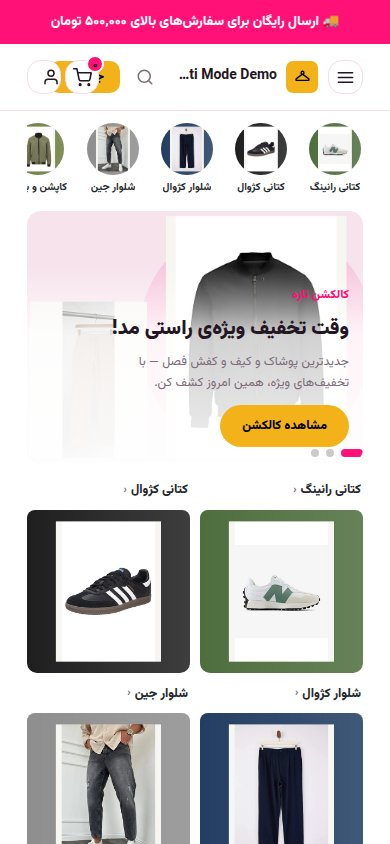
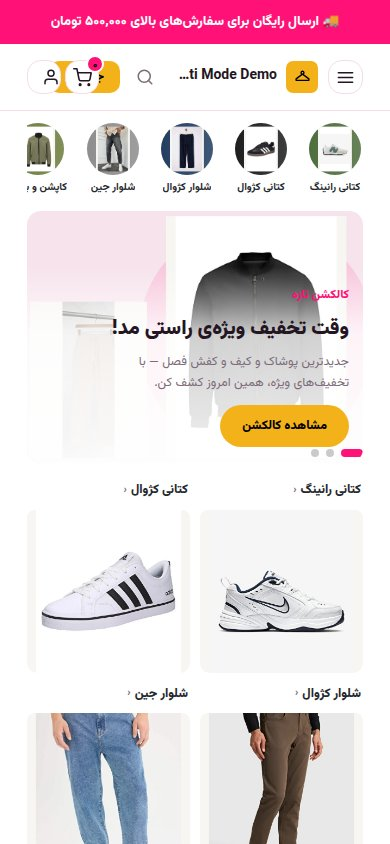
Fashion mosaic edge-to-edge fix + promo header CSS Grid restructure (v6)
Merchant QA on the previous micro-fix pass found two remaining visual
problems on fashion_promo_catalog's Home: the category mosaic still read
as a small product photo inside a colored frame, and the desktop promo
header's brand/search/actions structure was still wrong (only the inert
burger had been hidden).

Root cause of the mosaic (traced through the seed command's Pillow
compositing, not guessed): Category.image is a deliberately composed
800x600 canvas with a colored/gradient background and the product photo
pasted at ~86% height in its own narrower slot — the framing is baked
into the image bytes, so no object-fit:cover treatment can ever make it
read as edge-to-edge. Fix: a new generic, ID-free resolver,
resolve_category_representative_media(category), returns the cover
image of a real active product in that category (or its subcategories),
reusing the existing Product.cover_image convention. Wired into
_category_grid_context only for display_mode == "fashion_mosaic", so
every other category_grid variant and Ready Template is unaffected.

Header fix: .gh--promo .gh-row-main is now a real CSS Grid with
grid-template-areas "brand search actions" (brand=compact, search=wide
flexible column with a floor, actions=compact auto), which under this
site's RTL direction places brand right / search center-prominent /
actions left with no manual reversal. The shared gh-inline-block
(display:contents) wrapper on the search zone is overridden back to a
[…]

Changed region(s): [[0.0615, 0.5853, 0.9538, 0.8009], [0.0615, 0.8318, 0.9538, 1.0]]

diff --git a/apps/storefront_builder/static/css/storefront_builder.css b/apps/storefront_builder/static/css/storefront_builder.css
@@ -3649,24 +3649,41 @@ a.sfb-v3-component-item,
 }
 .gh-shell--promo .gh-announce .wrap{height:44px;justify-content:center;gap:18px;font-weight:800;font-size:13.5px}
 .gh-shell--promo .gh-announce-links a{color:#fff;font-weight:800}
-.gh--promo .gh-row-main{display:flex;align-items:center;gap:16px;height:76px}
-/* Micro-fix pass — merchant: "hamburger does nothing" + header
-   composition feels displaced. Root cause: .gh-row-nav (the row the
-   burger toggles) is a "shared desktop+mobile nav bar, always visible"
-   by this codebase's own established convention (see the comment on
-   .gh--marketplace .gh-row-nav above) -- it only actually collapses
-   below the 680px breakpoint, so on desktop the always-visible burger
-   toggled nothing a merchant could see, AND it sat as the very first
-   (rightmost, in RTL) element ahead of the logo, displacing it from its
-   natural anchor position. Hiding the burger above the breakpoint where
-   it is genuinely functional fixes both: desktop no longer shows a dead
-   control, and the logo becomes the rightmost anchor exactly like the
-   reference. The mobile toggle itself (confirmed working: click removes
-   .gh-nav-hidden, the existing .gh--promo .gh-row-nav:not(.gh-nav-hidden)
-   rule below then reveals it) is completely unchanged. */
+/* Second micro-fix pass — merchant: hiding the burger alone did not fix
+   the actual structural problem. A plain flex row with the burger simply
+   hidden still let the browser's normal flex distribution decide widths
+   -- .gh-promo-search only had flex:1 (grow) with no floor, so on a
+   crowded row it could still end up visually thin/displaced relative to
+   logo and actions. An explicit CSS Grid with named areas makes the
+   three zones' relative importance an intentional layout decision
+   instead of an emergent one: brand gets a stable compact column, search
+   gets a wide, floor-guaranteed flexible column, actions get a compact
+   auto column. Column 1 in grid-template-areas is the START edge, which
+   the page's RTL direction renders as the visual RIGHT -- so writing
+   "brand search actions" in that (logical, reading-order) sequence
+   places brand at the right, search centered, actions at the left,
+   exactly the required RTL-aware order, with no manual reversal needed. */
+.gh--promo .gh-row-main{
+  display:grid;
+  grid-template-columns:minmax(150px,auto) minmax(360px,1fr) auto;
+  grid-template-areas:"brand search actions";
+  align-items:center;gap:16px;height:76px;
+}
+.gh--promo .gh-row-main > .gh-logo{grid-area:brand;min-width:0}
+/* .gh-promo-search normally also carries .gh-inline-block
+   (display:contents, this codebase's shared "transparent wrapper for a
+   responsive data-attribute" pattern -- see layout.css's own comment on
+   .sfb-shell-inline) so its own hide_on_tablet/hide_on_mobile toggle
+   keeps working. A display:contents element cannot itself be a grid
+   item, so it must be cancelled here to let this wrapper occupy the
+   "search" column; the [data-shell-hide-tablet]/[data-shell-hide-mobile]
+   overrides that implement the actual hide toggle only apply inside
+   narrower media queries (layout.css), so they still win there
+   regardless of this override. */
+.gh--promo .gh-row-main > .gh-promo-search{grid-area:search;display:block;width:100%;min-width:0}
+.gh--promo .gh-row-main > .gh-actions{grid-area:actions}
 .gh--promo .gh-burger{display:none}
-.gh--promo .gh-promo-search{flex:1;max-width:720px}
-.gh--promo .gh-promo-search .gh-search{height:48px;border-radius:24px;background:var(--gh-bg)}
+.gh--promo .gh-promo-search .gh-search{height:48px;border-radius:24px;background:var(--gh-bg);width:100%}
 .gh--promo .gh-row-nav{background:var(--gh-surface);border-top:1px solid var(--gh-border)}
 .gh--promo .gh-row-nav .wrap{height:auto;padding-block:10px}
 .gh-promo-nav-row{display:flex;align-items:center;justify-content:space-between;gap:16px;flex-wrap:wrap}
@@ -3680,6 +3697,16 @@ a.sfb-v3-component-item,
   .gh--promo .gh-promo-search{max-width:none}
 }
 @media(max-width:680px){
+  /* Mobile main row reverts to plain flex — the desktop-only grid's
+     column minimums (e.g. search's 360px floor) would force overflow at
+     phone widths regardless of which zones are actually visible there.
+     Mobile header behavior is explicitly "accepted, do not break" this
+     pass, so this is a full revert to the pre-grid flex row, not a new
+     mobile layout. */
+  .gh--promo .gh-row-main{display:flex}
+  .gh--promo .gh-row-main > .gh-logo,
+  .gh--promo .gh-row-main > .gh-promo-search,
+  .gh--promo .gh-row-main > .gh-actions{grid-area:unset}
   .gh--promo .gh-burger{display:inline-flex}
   .gh--promo .gh-row-nav{display:none}
   .gh--promo .gh-row-nav:not(.gh-nav-hidden){display:block;position:relative}

diff --git a/apps/storefront_builder/templates/storefront_builder/sections/category_grid.html b/apps/storefront_builder/templates/storefront_builder/sections/category_grid.html
@@ -28,7 +28,9 @@ renderer never needs tenant ids inside a global preset.
       <a class="category-mosaic-tile" href="{% url 'catalog:product-list' %}?category={{ cat.slug }}">
         <span class="category-mosaic-heading">{{ cat.name }}<span class="category-mosaic-chevron" aria-hidden="true">‹</span></span>
         <span class="category-mosaic-media">
-          {% if cat.image %}<img src="{{ cat.image.url }}" alt="{{ cat.name }}" loading="lazy">{% else %}<span class="category-mosaic-fallback">{{ cat.icon|default:"🏷" }}</span>{% endif %}
+          {% if cat.representative_media %}<img src="{{ cat.representative_media.image.url }}" alt="{{ cat.name }}" loading="lazy">
+          {% elif cat.image %}<img src="{{ cat.image.url }}" alt="{{ cat.name }}" loading="lazy">
+          {% else %}<span class="category-mosaic-fallback">{{ cat.icon|default:"🏷" }}</span>{% endif %}
         </span>
       </a>
       {% endfor %}

diff --git a/apps/storefront_builder/tests/test_u2a_global_header_system.py b/apps/storefront_builder/tests/test_u2a_global_header_system.py
@@ -797,3 +797,104 @@ class LegacyDefaultUnchangedByFixPassTwoTests(TestCase):
     def test_legacy_default_still_resolves_correctly_after_fix_pass_two(self):
         variant = g.get_global_variant(g.GLOBAL_HEADER_REGION, "legacy_default")
         self.assertEqual(variant.renderer, "storefront_builder/partials/page_shell_header.html")
+
+
+_PROMO_HEADER_TEMPLATE_PATH = (
+    _GLOBAL_HEADER_DIR / "promo_search_nav.html"
+)
+
+
+class PromoHeaderDesktopGridStructureTests(TestCase):
+    """Final Home micro-fix — merchant QA: the previous pass only hid the
+    inert desktop burger; the promo header's main row must actually read
+    as RIGHT=brand / CENTER=search / LEFT=actions in RTL. Implemented as
+    a real CSS Grid with explicit named areas (not flex order tricks),
+    verified here at the CSS-source level; the live pixel positions were
+    verified separately with a real browser render (see the mission's
+    final report)."""
+
+    def test_row_main_is_a_grid_with_named_areas(self):
+        css = _GLOBAL_HEADER_CSS_PATH.read_text(encoding="utf-8")
+        self.assertIn(".gh--promo .gh-row-main{", css)
+        self.assertIn('grid-template-areas:"brand search actions"', css)
+
+    def test_logo_is_the_brand_area(self):
+        css = _GLOBAL_HEADER_CSS_PATH.read_text(encoding="utf-8")
+        self.assertIn(".gh--promo .gh-row-main > .gh-logo{grid-area:brand", css)
+
+    def test_search_is_the_flexible_central_area(self):
+        css = _GLOBAL_HEADER_CSS_PATH.read_text(encoding="utf-8")
+        self.assertIn(".gh--promo .gh-row-main > .gh-promo-search{grid-area:search", css)
+
+    def test_actions_is_the_compact_auto_width_area(self):
+        css = _GLOBAL_HEADER_CSS_PATH.read_text(encoding="utf-8")
+        self.assertIn(".gh--promo .gh-row-main > .gh-actions{grid-area:actions}", css)
+
+    def test_search_area_overrides_the_shared_display_contents_wrapper(self):
+        """``.gh-promo-search`` also carries the shared ``gh-inline-block``
+        class, which sets ``display:contents`` — that makes an element
+        invalid as a grid item. The promo-specific override must restore
+        a real display value so the grid actually places it."""
+        css = _GLOBAL_HEADER_CSS_PATH.read_text(encoding="utf-8")
+        self.assertIn(".gh--promo .gh-row-main > .gh-promo-search{grid-area:search;display:block", css)
+
+    def test_desktop_burger_is_hidden(self):
+        css = _GLOBAL_HEADER_CSS_PATH.read_text(encoding="utf-8")
+        self.assertIn(".gh--promo .gh-burger{display:none}", css)
+
+    @staticmethod
+    def _promo_mobile_block(css: str) -> str:
+        """The ``.gh--promo``-specific ``@media(max-width:680px)`` block —
+        extracted by anchoring on the promo-only comment that opens it,
+        since the file has many unrelated 680px blocks for other
+        variants/sections."""
+        anchor = css.index("Mobile main row reverts to plain flex")
+        start = css.rindex("@media(max-width:680px)", 0, anchor)
+        end = css.index("\n}\n", anchor) + 3
+        return css[start:end]
+
+    def test_mobile_breakpoint_fully_reverts_to_flex(self):
+        """Grid track minimums (``minmax(360px,1fr)``) are reserved
+        regardless of visibility — reusing the desktop grid unmodified at
+        390px would force horizontal overflow. The accepted mobile layout
+        (frozen by this mission) must be preserved via a full revert."""
+        css = _GLOBAL_HEADER_CSS_PATH.read_text(encoding="utf-8")
+        mobile_block = self._promo_mobile_block(css)
+        self.assertIn(".gh--promo .gh-row-main{display:flex}", mobile_block)
+        self.assertIn(".gh--promo .gh-burger{display:inline-flex}", mobile_block)
+
+    def test_promo_template_markup_unchanged_by_css_only_fix(self):
+        """This pass fixes the header via CSS structure, not by
+        reordering the DOM — burger/logo/search/actions must still exist
+        in their original source order (grid-template-areas alone
+        determines the visual position)."""
+        source = _PROMO_HEADER_TEMPLATE_PATH.read_text(encoding="utf-8")
+        burger_pos = source.index("gh-burger")
+        logo_pos = source.index("_shared/logo.html")
+        search_pos = source.index("gh-promo-search")
+        actions_pos = source.index('class="gh-actions"')
+        self.assertLess(burger_pos, logo_pos)
+        self.assertLess(logo_pos, search_pos)
+        self.assertLess(search_pos, actions_pos)
+
+
+class PromoHeaderMobileNavToggleContractTests(TestCase):
+    """Re-verifies the mobile hamburger contract survives the desktop
+    grid restructuring — the toggle logic itself (Alpine ``ghMobileOpen``
+    state, ``gh-nav-hidden`` class binding) was never touched by this
+    pass, only the desktop CSS was."""
+
+    def test_burger_toggles_ghmobileopen_state(self):
+        html = _render_variant("storefront_builder/partials/global_header/promo_search_nav.html")
+        self.assertIn("@click=\"ghMobileOpen = !ghMobileOpen\"", html)
+        self.assertIn('aria-controls="gh-mobile-nav"', html)
+
+    def test_nav_row_binds_hidden_class_to_the_same_state(self):
+        html = _render_variant("storefront_builder/partials/global_header/promo_search_nav.html")
+        self.assertIn('id="gh-mobile-nav"', html)
+        self.assertIn("{ 'gh-nav-hidden': !ghMobileOpen }", html)
+
+    def test_burger_button_itself_is_never_css_hidden_below_the_desktop_breakpoint(self):
+        css = _GLOBAL_HEADER_CSS_PATH.read_text(encoding="utf-8")
+        mobile_block = PromoHeaderDesktopGridStructureTests._promo_mobile_block(css)
+        self.assertNotIn(".gh--promo .gh-burger{display:none}", mobile_block)

diff --git a/apps/storefront_builder/tests/test_section_data_service.py b/apps/storefront_builder/tests/test_section_data_service.py
@@ -5,6 +5,7 @@ from django.test import TestCase
 
 from apps.catalog.models import Brand, Category, Product, Vendor
 from apps.catalog.services import collection_service
+from apps.catalog.services.product_image_service import add_product_image
 from apps.storefront_builder.services import section_data_service
 from apps.stores.models import Store
 
@@ -293,3 +294,61 @@ class ResolveManualSourceTests(TestCase):
             self.store, _manual_settings(product_ids=ordered_ids, item_limit=2),
         )
         self.assertEqual([p.pk for p in products], ordered_ids[:2])
+
+
+def _png(name="test.png"):
+    from io import BytesIO
+
+    from django.core.files.uploadedfile import SimpleUploadedFile
+    from PIL import Image
+
+    buf = BytesIO()
+    Image.new("RGB", (400, 400), (10, 20, 30)).save(buf, "PNG")
+    return SimpleUploadedFile(name, buf.getvalue(), content_type="image/png")
+
+
+class ResolveCategoryRepresentativeMediaTests(TestCase):
+    """Micro-fix pass: the category mosaic must show a real per-product
+    cover image (edge-to-edge) instead of ``Category.image`` (a
+    deliberately composed thumbnail with baked-in colored margins — see
+    ``section_data_service.resolve_category_representative_media``'s own
+    docstring for the full root-cause). Generic/ID-free: only
+    already-resolved Category objects go in, only real, currently
+    storefront-visible Products come out."""
+
+    def setUp(self):
+        self.store = _akhlaghi()
+        self.category = Category.objects.create(store=self.store, name="دسته موزاییک", slug="mosaic-cat")
+
+    def test_no_products_returns_none(self):
+        self.assertIsNone(section_data_service.resolve_category_representative_media(self.category))
+
+    def test_returns_cover_image_of_a_real_product_in_category(self):
+        product = _product(self.store, "mosaic-p1", category=self.category)
+        image = add_product_image(product, _png())
+        media = section_data_service.resolve_category_representative_media(self.category)
+        self.assertEqual(media.pk, image.pk)
+
+    def test_subcategory_product_counts_as_representative(self):
+        child = Category.objects.create(store=self.store, name="زیردسته موزاییک", slug="mosaic-cat-child", parent=self.category)
+        product = _product(self.store, "mosaic-child-p1", category=child)
+        image = add_product_image(product, _png())
+        media = section_data_service.resolve_category_representative_media(self.category)
+        self.assertEqual(media.pk, image.pk)
+
+    def test_product_with_no_images_returns_none(self):
+        _product(self.store, "mosaic-no-image", category=self.category)
+        self.assertIsNone(section_data_service.resolve_category_representative_media(self.category))
+
+    def test_non_storefront_visible_product_excluded(self):
+        _product(self.store, "mosaic-hidden", category=self.category, status=Product.Status.DRAFT)
+        self.assertIsNone(section_data_service.resolve_category_representative_media(self.category))
+
+    def test_cross_store_category_products_never_leak(self):
+        other_store = Store.objects.create(
+            name="فروشگاه دوم موزاییک", slug="section-data-svc-mosaic-other", admin_subdomain="section-data-svc-mosaic-other",
+        )
+        other_category = Category.objects.create(store=other_store, name="دسته فروشگاه دیگر موزاییک", slug="mosaic-other-cat")
+        other_product = _product(other_store, "mosaic-other-p1", category=other_category)
+        add_product_image(other_product, _png())
+        self.assertIsNone(section_data_service.resolve_category_representative_media(self.category))

diff --git a/apps/storefront_builder/tests/test_render_service.py b/apps/storefront_builder/tests/test_render_service.py
@@ -489,6 +489,50 @@ class CategoryGridRenderTests(TestCase):
         item = self._items_for(draft, store)[0]
         self.assertEqual(item["context"]["top_categories"], [])
 
+    def test_fashion_mosaic_attaches_representative_media_from_real_product(self):
+        """Micro-fix pass: ``fashion_mosaic`` tiles must read a real
+        product's cover image (edge-to-edge), not ``Category.image`` (a
+        composed thumbnail with baked-in colored margins)."""
+        from apps.catalog.services.product_image_service import add_product_image
+
+        store = _akhlaghi()
+        cat = Category.objects.create(store=store, name="موزاییک رندر", slug="cat-mosaic-render", is_active=True)
+        product = Product.objects.create(
+            store=store,
+            vendor=Vendor.objects.create(store=store, name="فروشنده موزاییک رندر", slug="v-mosaic-render"),
+            category=cat, name="کالای موزاییک رندر", slug="p-mosaic-render",
+            sku="SKU-MOSAIC-RENDER", price=Decimal("10000"), status=Product.Status.ACTIVE,
+        )
+        image = add_product_image(product, _img())
+        draft = svc.get_or_create_draft(store)
+        draft.sections.filter(section_key="category_grid").delete()
+        StorefrontSection.objects.create(
+            version=draft, section_key="category_grid", order=900,
+            settings={"title": "", "display_mode": "fashion_mosaic", "category_ids": [cat.pk]},
+        )
+        item = self._items_for(draft, store)[0]
+        rendered_cat = item["context"]["top_categories"][0]
+        self.assertEqual(rendered_cat.representative_media.pk, image.pk)
+
+    def test_non_mosaic_display_modes_do_not_attach_representative_media(self):
+        """Isolation: the extra per-category product lookup must never run
+        for any other ``category_grid`` display_mode (fashion_flat, grid,
+        circular, image_strip) — those keep reading ``category.image``
+        exactly as before this micro-fix pass."""
+        from apps.catalog.models import Category
+
+        store = _akhlaghi()
+        cat = Category.objects.create(store=store, name="موزاییک غیر", slug="cat-non-mosaic-render", is_active=True)
+        draft = svc.get_or_create_draft(store)
+        draft.sections.filter(section_key="category_grid").delete()
+        StorefrontSection.objects.create(
+            version=draft, section_key="category_grid", order=900,
+            settings={"title": "", "display_mode": "grid", "category_ids": [cat.pk]},
+        )
+        item = self._items_for(draft, store)[0]
+        rendered_cat = item["context"]["top_categories"][0]
+        self.assertFalse(hasattr(rendered_cat, "representative_media"))
+
 
 class CatalogProductWallContextTests(TestCase):
     """Site-target-overhaul Part 2D — the generic, ID-free multi-row

diff --git a/apps/storefront_builder/services/section_data_service.py b/apps/storefront_builder/services/section_data_service.py
@@ -51,6 +51,39 @@ def products_in_category(store, category, limit: int) -> list:
     )
 
 
+def resolve_category_representative_media(category):
+    """Generic, ID-free, Store-agnostic: the cover image of a real,
+    currently active product in this category (or its subcategories) —
+    reuses ``Product.cover_image``, the same N+1-safe cover-image
+    convention every product card already uses.
+
+    Root-cause note (mission: category mosaic "colored frame around a
+    small photo" complaint): ``Category.image`` is NOT a raw product
+    photo — it is a deliberately composed 800x600 canvas (a colored/
+    gradient background with the product pasted at ~86% height, centered
+    in its own narrower slot; see ``seed_ready_template_fashion_demo.
+    _composite_visual_bytes``/``_seed_category_images``). That framing is
+    baked into the image bytes themselves, so no CSS crop/object-fit
+    treatment can ever make it read as edge-to-edge — cropping a
+    fixed-margin image only removes a fraction of the margin before
+    cutting into the product itself. A real product photo has no such
+    guaranteed margin, so it is the correct source for an edge-to-edge
+    tile treatment. Returns ``None`` (never raises) if the category has
+    no active product with any image at all — callers must fall back
+    (e.g. to ``category.image`` or an icon), matching this module's own
+    fail-closed convention."""
+    product = (
+        storefront_listing_products(category.store)
+        .filter(Q(category=category) | Q(category__parent=category))
+        .prefetch_related("images")
+        .order_by("-created_at", "id")
+        .first()
+    )
+    if product is None:
+        return None
+    return product.cover_image
+
+
 def _resolve_collection(store, settings: dict):
     source_id = settings.get("source_id")
     if not source_id:

diff --git a/apps/storefront_builder/services/render_service.py b/apps/storefront_builder/services/render_service.py
@@ -134,10 +134,22 @@ def _category_grid_context(store, section):
         item_limit = max(2, min(12, int(settings.get("item_limit", 12))))
     except (TypeError, ValueError):
         item_limit = 12
+    top_categories = categories[:item_limit]
+    # Micro-fix pass — merchant: fashion_mosaic tiles must show the image
+    # edge-to-edge, but ``category.image`` is a deliberately composed
+    # thumbnail with large baked-in colored margins (see
+    # ``section_data_service.resolve_category_representative_media``'s own
+    # docstring for the full root-cause). Only THIS display_mode pays for
+    # the extra per-category product lookup; every other category_grid
+    # variant (fashion_flat, grid, circular, image_strip) is completely
+    # unaffected and keeps reading ``category.image`` exactly as before.
+    if settings.get("display_mode") == "fashion_mosaic":
+        for category in top_categories:
+            category.representative_media = section_data_service.resolve_category_representative_media(category)
     return {
         "tiles": list(zip(categories[:3], TILE_CLASSES)),
         "cream_category": categories[3] if len(categories) > 3 else None,
-        "top_categories": categories[:item_limit],
+        "top_categories": top_categories,
         "category_grid_settings": settings,
     }
 

diff --git a/apps/storefront_builder/layout_preset_registry.py b/apps/storefront_builder/layout_preset_registry.py
@@ -909,7 +909,14 @@ register_layout_preset(LayoutPresetDefinition(
     # carry a real ``slides`` list (auto-rotating campaign slider, new
     # composite images), a real content change for the same reason as
     # every prior bump.
-    version="5",
+    #
+    # Second micro-fix pass — bumped again: the category mosaic now reads
+    # a real per-product cover image (via the new
+    # ``resolve_category_representative_media`` resolver) instead of
+    # ``category.image``, and the promo header's main row is a real CSS
+    # Grid layout instead of flex — both genuinely change what a merchant
+    # sees, for the same reason as every prior bump.
+    version="6",
     is_ready_template=True,
     label_fa="کاتالوگِ پوشاک و پیشنهادها",
     description_fa="چیدمانِ کاتالوگمحور با بنرهایِ تبلیغاتیِ متعدد — مناسبِ پوشاک/مدی که مرتب کمپین/تخفیف اجرا میکند.",
